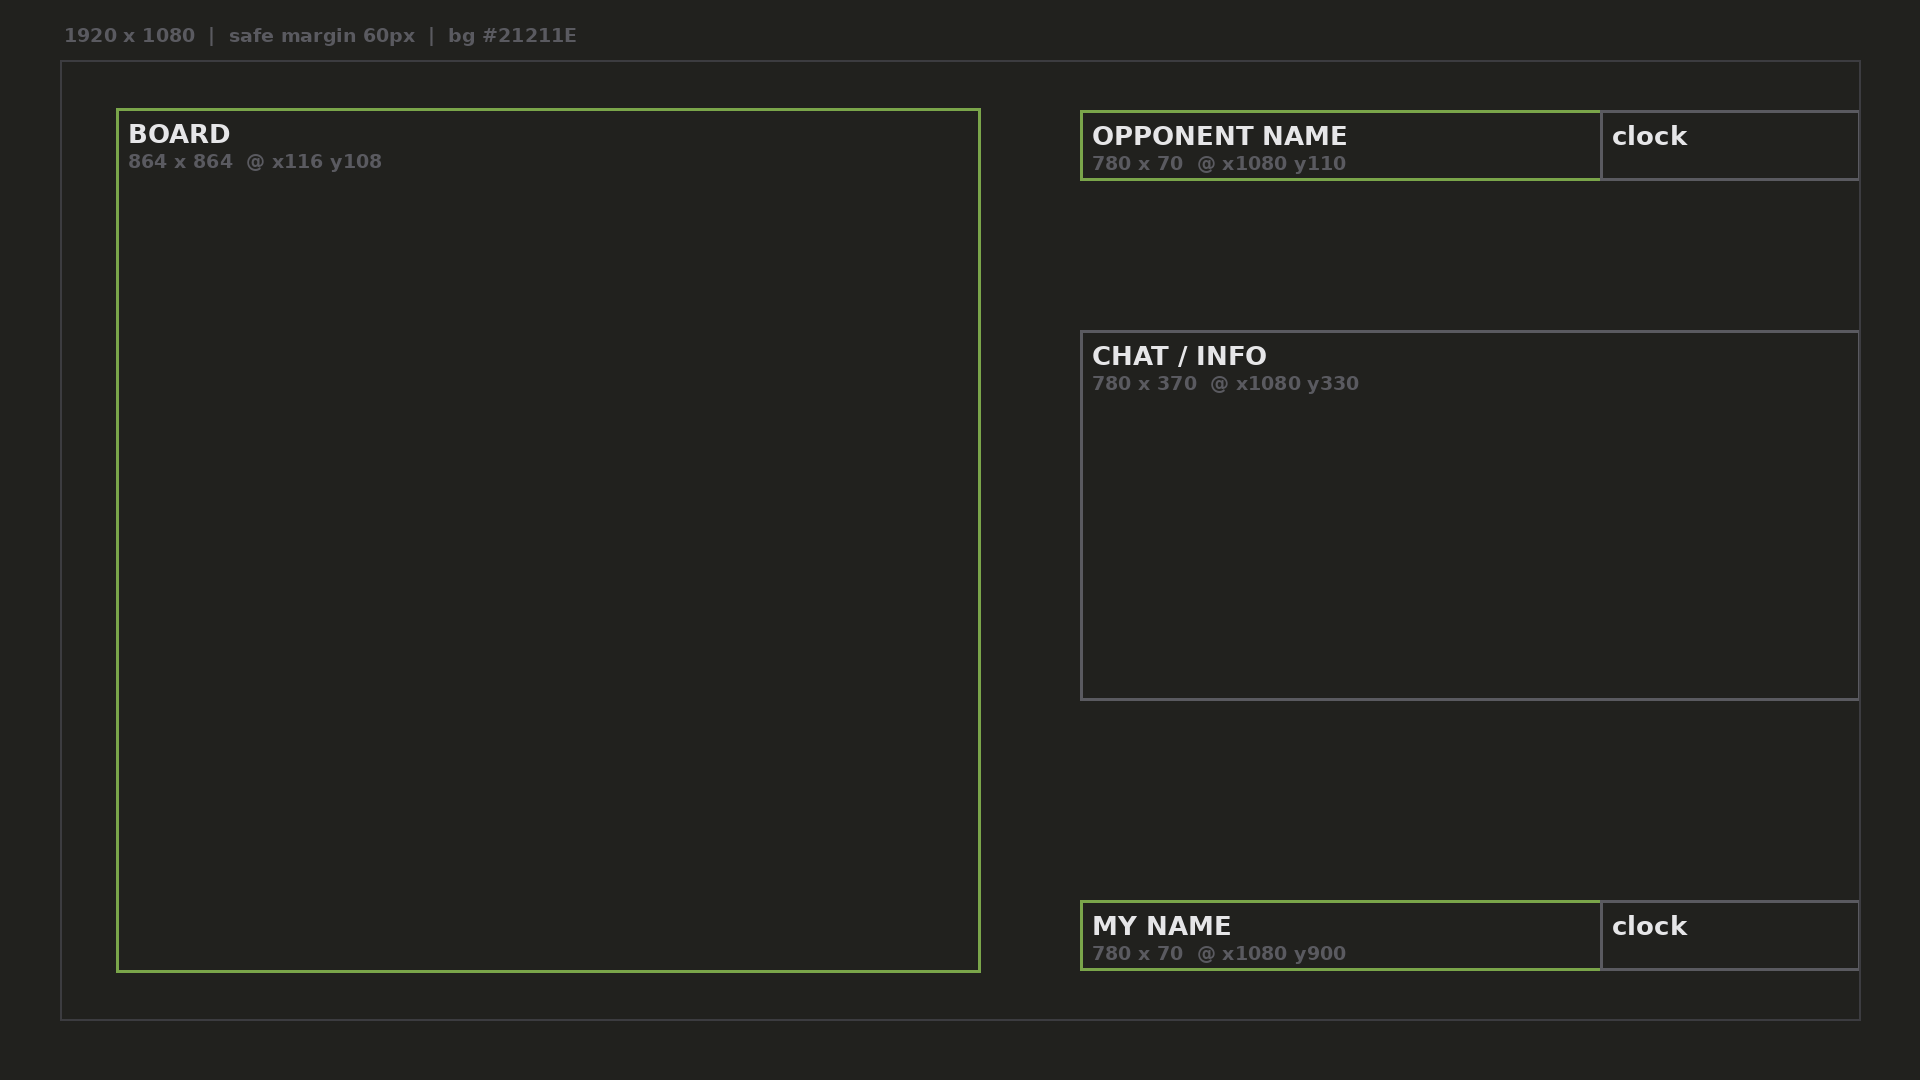
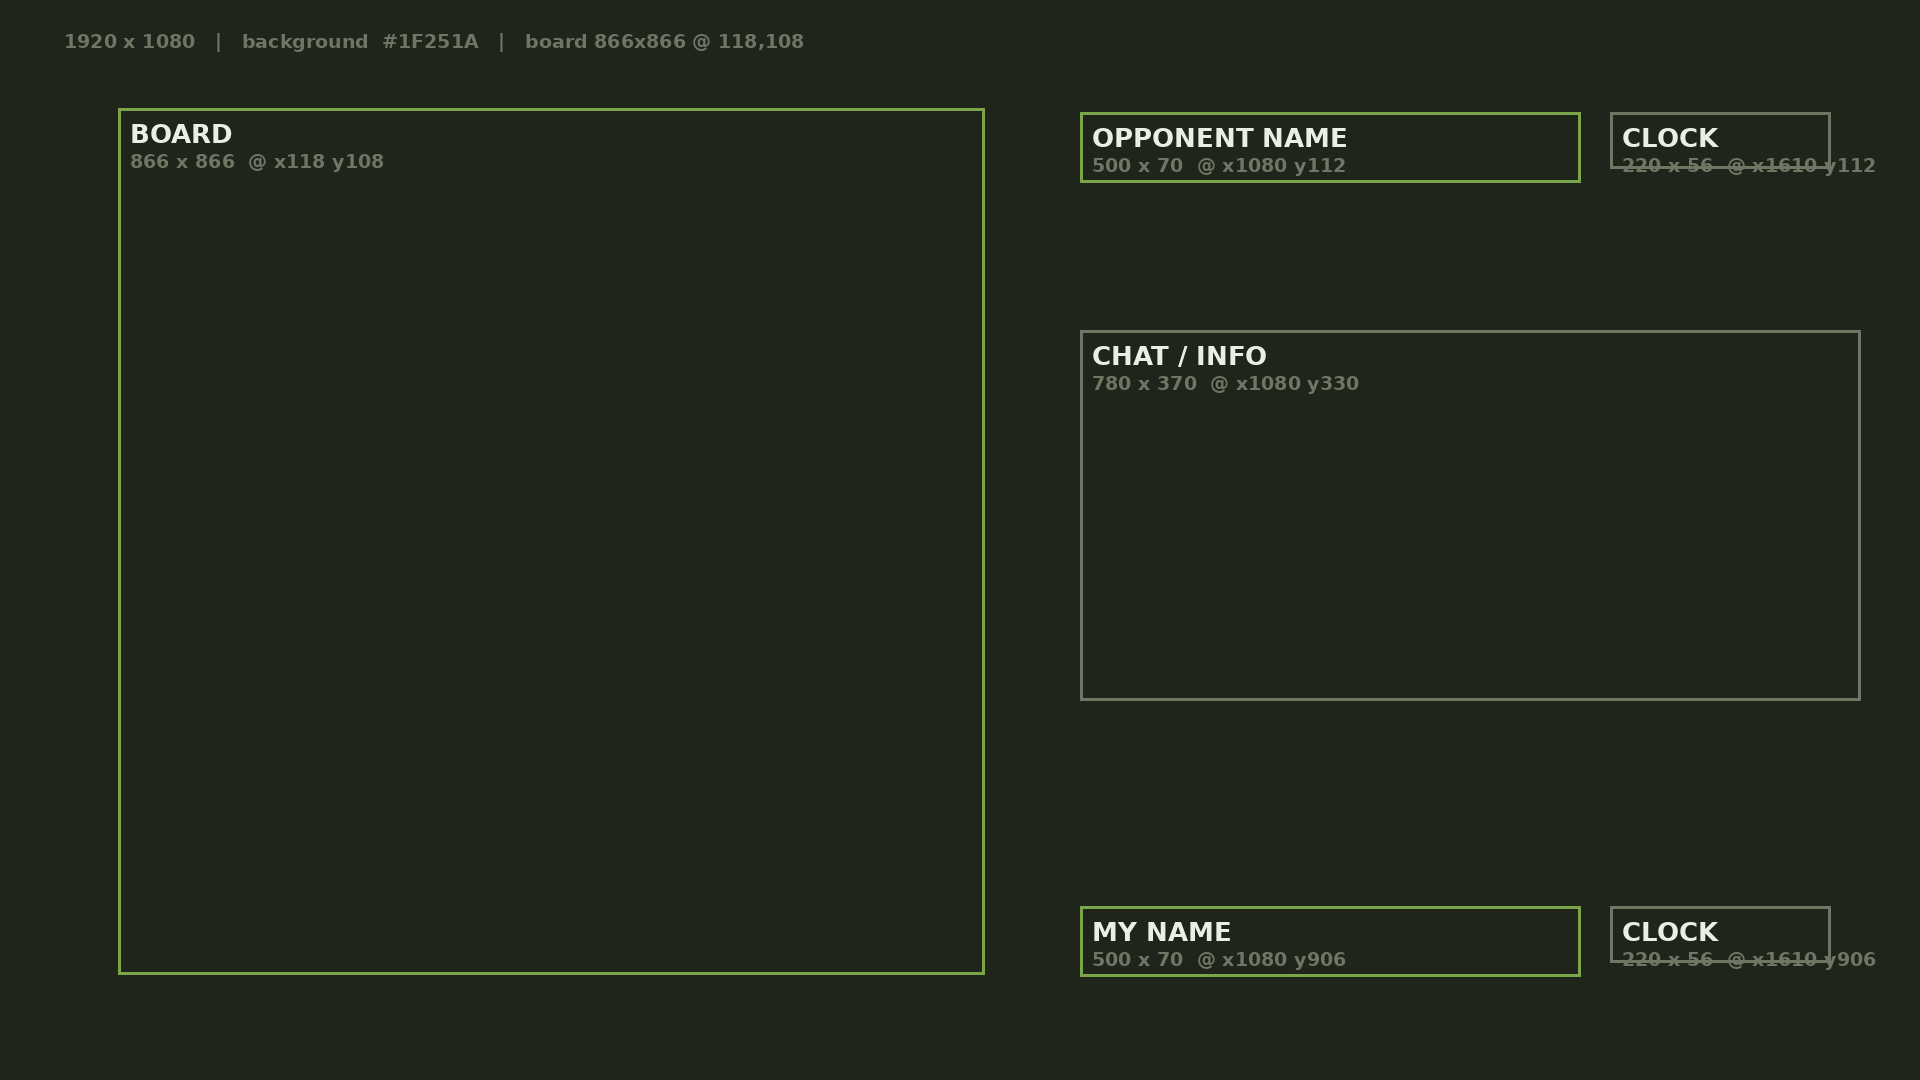
배치 수치를 실측값으로 고치고 경계 상자 대신 배율로 안내
참고 화면을 픽셀 단위로 재서 보드 866x866 @ 118,108 로 바로잡고,
배경색도 측정값인 #1F251A(어두운 초록)로 고쳤다. 회색 계열이던 이전 값은
보드 주변이 붕 떠 보인다.

크기 맞추기는 경계 상자 대신 크기 조정 X·Y 에 같은 값을 넣는 방식으로 바꿨다.

Claude-Session: https://claude.ai/code/session_012kgczb1ZBpXJGFvjTzaQLv

diff --git a/obs-layout.md b/obs-layout.md
@@ -8,15 +8,18 @@
 | 무엇 | 크기 | 위치 |
 | --- | --- | --- |
 | 배경 | 1920 × 1080 | 0, 0 |
-| 보드 | 864 × 864 | x 116, y 108 |
-| 상대 이름 | 780 × 70 | x 1080, y 110 |
-| 상대 시계 | 260 × 70 | x 1600, y 110 |
+| 보드 | 866 × 866 | x 118, y 108 |
+| 상대 이름 | 500 × 70 | x 1080, y 112 |
+| 상대 시계 | 220 × 56 | x 1610, y 112 |
 | 채팅·정보 | 780 × 370 | x 1080, y 330 |
-| 내 이름 | 780 × 70 | x 1080, y 900 |
-| 내 시계 | 260 × 70 | x 1600, y 900 |
+| 내 이름 | 500 × 70 | x 1080, y 906 |
+| 내 시계 | 220 × 56 | x 1610, y 906 |
 
-배경색은 `21211E` 입니다. 체스닷컴 어두운 테마와 이어져 보이는 값이라,
-보드 주변 여백이 잘린 화면처럼 보이지 않고 한 화면처럼 읽힙니다.
+이 값들은 참고한 화면을 픽셀 단위로 재서 뽑은 것입니다. 보드는 정확히 정사각형이고,
+화면 폭의 45%, 높이의 80%를 차지합니다.
+
+배경색은 **`1F251A`** 입니다. 회색이 아니라 어두운 초록입니다.
+이 색이 맞아야 보드 주변 여백이 잘린 화면처럼 보이지 않고 한 화면처럼 읽힙니다.
 
 ## 순서
 
@@ -37,13 +40,20 @@
 3. 남은 그림이 정사각형에 가까워야 합니다
 
 ### 5. 보드 크기와 자리 맞추기
-캡처 소스를 우클릭 → **변환** → **변환 편집**(`Ctrl+E`) 에서 숫자로 넣는 게 가장 정확합니다.
+캡처 소스를 우클릭 → **변환** → **변환 편집**(`Ctrl+E`) 을 엽니다.
 
-- 위치: X `116`, Y `108`
-- 경계 상자 유형: **안쪽에 맞추기**
-- 경계 상자 크기: `864` × `864`
+1. **위치** 에 X `118`, Y `108`
+2. **크기 조정** 의 X 와 Y 에 **같은 숫자**를 넣습니다
 
-경계 상자를 쓰면 비율이 유지된 채로 그 안에 맞춰집니다. 마우스로 끌어 맞추는 것보다 정확합니다.
+크기 조정 X·Y를 같은 값으로 두면 비율이 유지됩니다. 넣을 숫자는
+
+    866 ÷ (잘라낸 보드의 세로 픽셀 수)
+
+예를 들어 잘라낸 보드가 세로 700px이면 `866 ÷ 700 = 1.237` 이니 X·Y 둘 다 `1.237`.
+잘라낸 크기는 변환 편집 창에 표시되는 현재 크기에서 확인할 수 있습니다.
+
+한 번에 딱 맞지 않아도 됩니다. 숫자를 조금씩 바꿔가며 가이드 이미지의 초록 사각형에
+보드가 겹쳐지면 그게 맞는 값입니다.
 
 ### 6. 이름과 시계 얹기
 이름은 텍스트 소스로 만듭니다. 소스 `+` → **텍스트(GDI+)** → **파일에서 읽기** 체크 →
